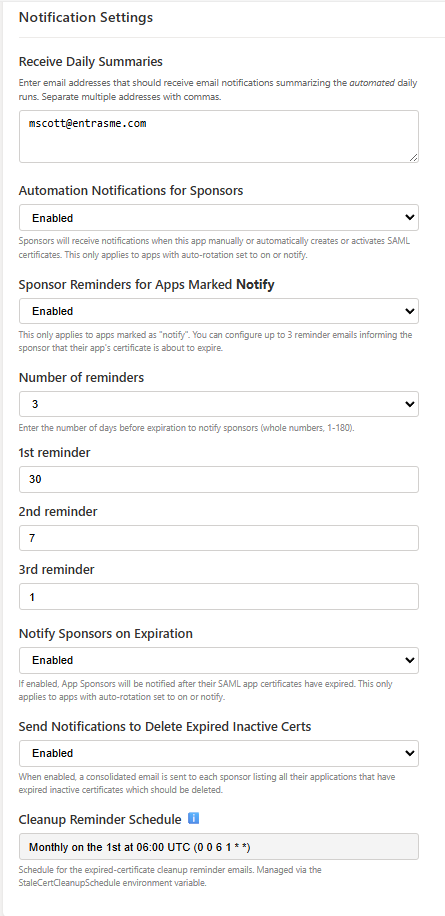
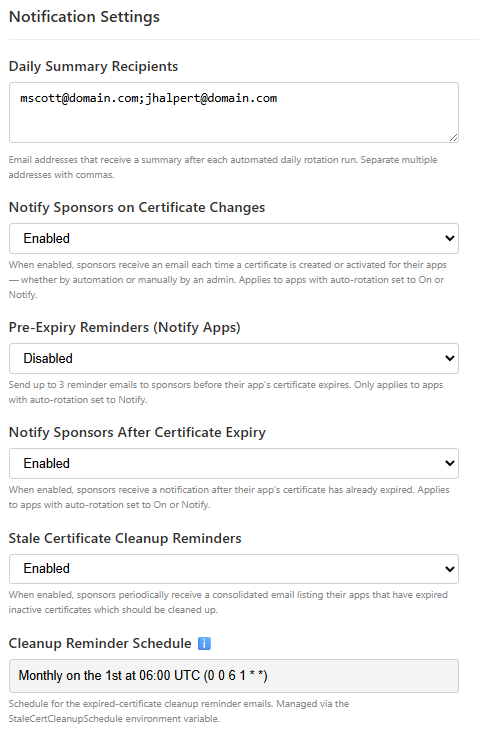
Update screenshots and fix anchor links

diff --git a/Screenshots.md b/Screenshots.md
@@ -1,4 +1,9 @@
-# Tour of the Web Portal
+# Tour of the Static Web App (SWA)
+
+[Admin View](#admin-view) <br />
+[App Sponsor View](#app-sponsor-view) 
+
+---
 ## Admin View
 ### Overview 
 
@@ -8,7 +13,7 @@
 
 ![](docs/images/SamlDashApps.png)
 
-### Certificate Clean up
+### Certificate Clean-up
 
 ![](docs/images/SamlDashCerts.png)
 
@@ -18,8 +23,18 @@
 
 ### Settings
 
+![](docs/images/SamlDashSettings0.png)
+
 ![](docs/images/SamlDashSettings1.png)
+
 ![](docs/images/SamlDashSettings2.png)
+
+![](docs/images/SamlDashSettings3.png)
+
+![](docs/images/SamlDashSettings4.png)
+
+### Audit Logs
+![](docs/images/SamlAudit.png)
 
 ### Reports
 
@@ -27,8 +42,12 @@
 
 ![](docs/images/SamlReports2.png)
 
+### Testing
 
-## Sponsor View
+![](docs/images/SamlDashTesting.png)
+
+---
+## App Sponsor View
 ### My SAML Apps
 
 ![](docs/images/MySaml.png)
@@ -36,4 +55,3 @@
 ### My Stale Certs
 
 ![](docs/images/MyCerts.png)
-
